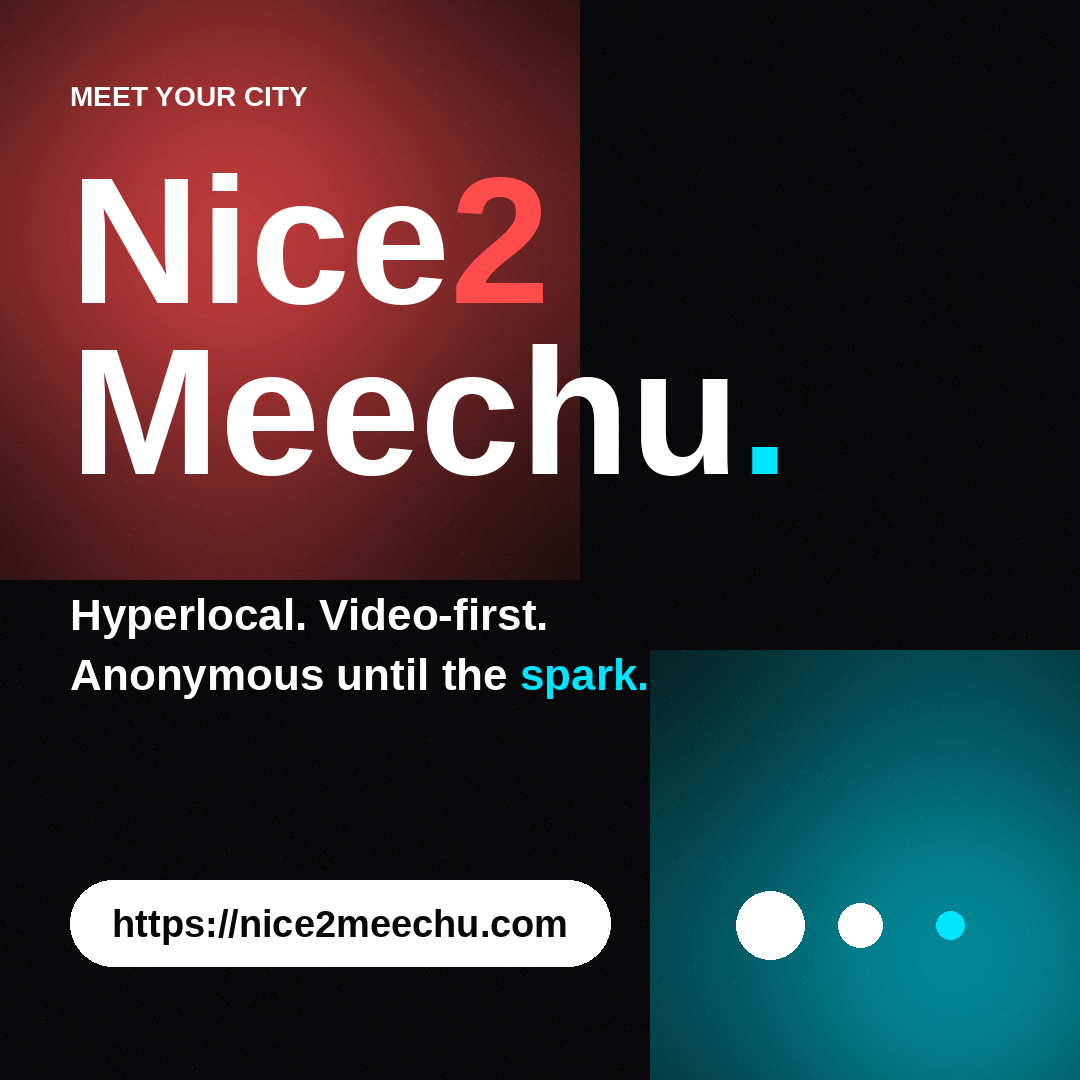
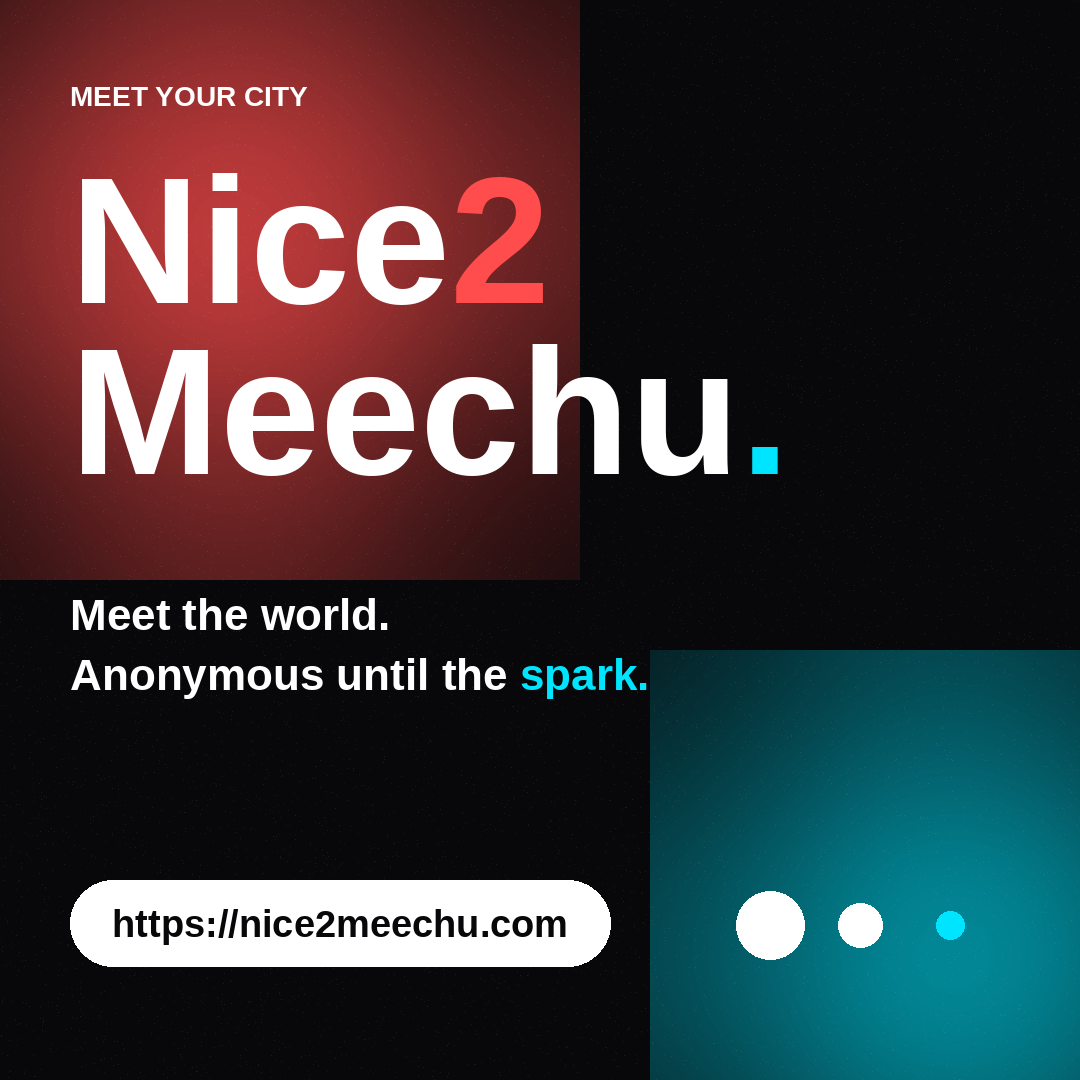
auto-commit for 55081392-5a3a-4d7f-ab7b-afbe31db7c1b

Changed region(s): [[0.0611, 0.55, 0.5194, 0.6111]]

diff --git a/frontend/public/index.html b/frontend/public/index.html
@@ -21,7 +21,7 @@
         work correctly both with client-side routing and a non-root public URL.
         Learn how to configure a non-root public URL by running `npm run build`.
         -->
-        <title>Nice2Meechu — Hyperlocal, video-first, anonymous until the spark</title>
+        <title>Nice2Meechu — Meet the world, video-first, anonymous until the spark</title>
         <meta name="description" content="Nice2Meechu is a hyperlocal, video-first social app. Connect through short video intros — anonymous until you match." />
 
         <!-- Open Graph / Twitter share unfurling — absolute URLs because
@@ -31,16 +31,16 @@
         <meta property="og:url" content="https://nice2meechu.com/" />
         <meta property="og:site_name" content="Nice2Meechu" />
         <meta property="og:title" content="Nice2Meechu — meet someone nearby" />
-        <meta property="og:description" content="Hyperlocal · video-first · anonymous until the spark." />
+        <meta property="og:description" content="Meet the world · video-first · anonymous until the spark." />
         <meta property="og:image" content="https://nice2meechu.com/og-default.png" />
         <meta property="og:image:secure_url" content="https://nice2meechu.com/og-default.png" />
         <meta property="og:image:width" content="1200" />
         <meta property="og:image:height" content="630" />
-        <meta property="og:image:alt" content="Nice2Meechu — Hyperlocal, video-first, anonymous until the spark" />
+        <meta property="og:image:alt" content="Nice2Meechu — Meet the world, video-first, anonymous until the spark" />
         <meta property="og:locale" content="en_US" />
         <meta name="twitter:card" content="summary_large_image" />
         <meta name="twitter:title" content="Nice2Meechu — meet someone nearby" />
-        <meta name="twitter:description" content="Hyperlocal · video-first · anonymous until the spark." />
+        <meta name="twitter:description" content="Meet the world · video-first · anonymous until the spark." />
         <meta name="twitter:image" content="https://nice2meechu.com/og-default.png" />
         <meta name="twitter:image:alt" content="Nice2Meechu — Hyperlocal, video-first, anonymous until the spark" />
 

diff --git a/frontend/src/components/ShareCard.js b/frontend/src/components/ShareCard.js
@@ -9,7 +9,7 @@ export function ShareCard({ user }) {
   const [copied, setCopied] = useState(false);
   const handle = user.handle || user.codename?.toLowerCase().replace(/\s+/g, ".");
   const shareUrl = `${window.location.origin}/?ref=${encodeURIComponent(handle)}`;
-  const shareText = `${user.codename} just invited you to Nice2Meechu — video-first, hyperlocal, anonymous until the spark.`;
+  const shareText = `${user.codename} just invited you to Nice2Meechu — video-first, anonymous until the spark.`;
 
   const onShare = async () => {
     const result = await shareOrCopy({

diff --git a/frontend/src/screens/SignInScreen.js b/frontend/src/screens/SignInScreen.js
@@ -115,7 +115,7 @@ export function SignInScreen() {
         <br />Meechu<span style={{ color: "#00E5FF" }}>.</span>
       </div>
       <p className="mt-4 text-sm text-white/55 font-medium leading-relaxed max-w-[280px]">
-        Hyperlocal. Video-first. Anonymous until the spark.
+        Meet the world. Video-first. Anonymous until the spark.
       </p>
 
       <div className="mt-auto flex flex-col items-center gap-3">

diff --git a/frontend/src/screens/Splash.js b/frontend/src/screens/Splash.js
@@ -16,7 +16,7 @@ export function Splash() {
           </div>
         </div>
         <p className="mt-6 text-sm text-white/55 font-medium max-w-[260px] mx-auto leading-relaxed">
-          Hyperlocal. Video-first. Anonymous until the spark.
+          Meet the world. Video-first. Anonymous until the spark.
         </p>
       </div>
     </motion.div>

diff --git a/scripts/make_share_cards.py b/scripts/make_share_cards.py
@@ -96,7 +96,7 @@ def card_story_minimal():
 
     # Tiny top label
     f_small = font(34, bold=True)
-    draw.text((80, 110), "HYPERLOCAL · VIDEO-FIRST", font=f_small, fill=(255, 255, 255, 200))
+    draw.text((80, 110), "MEET THE WORLD · VIDEO-FIRST", font=f_small, fill=(255, 255, 255, 200))
 
     # Stacked wordmark — left aligned, takes most of the upper third
     wordmark(draw, 80, 220, size=230, layout="stacked")
@@ -151,7 +151,7 @@ def card_feed_square():
 
     # Tagline single line
     f_tag = font(44, bold=True)
-    draw.text((70, 590), "Hyperlocal. Video-first.", font=f_tag, fill=WHITE)
+    draw.text((70, 590), "Meet the world.", font=f_tag, fill=WHITE)
     draw.text((70, 650), "Anonymous until the ", font=f_tag, fill=WHITE)
     tail_x = 70 + text_w(draw, "Anonymous until the ", f_tag)
     draw.text((tail_x, 650), "spark.", font=f_tag, fill=CYAN)
@@ -240,7 +240,7 @@ def card_story_qr():
     url_w = text_w(draw, URL, f_url)
     draw.text(((W - url_w) // 2, card_y + card_h + 60), URL, font=f_url, fill=WHITE)
     f_foot = font(26, bold=True)
-    foot = "HYPERLOCAL · VIDEO-FIRST · ANONYMOUS UNTIL THE SPARK"
+    foot = "MEET THE WORLD · VIDEO-FIRST · ANONYMOUS UNTIL THE SPARK"
     foot_w = text_w(draw, foot, f_foot)
     draw.text(((W - foot_w) // 2, card_y + card_h + 130), foot, font=f_foot, fill=(255, 255, 255, 150))
 
